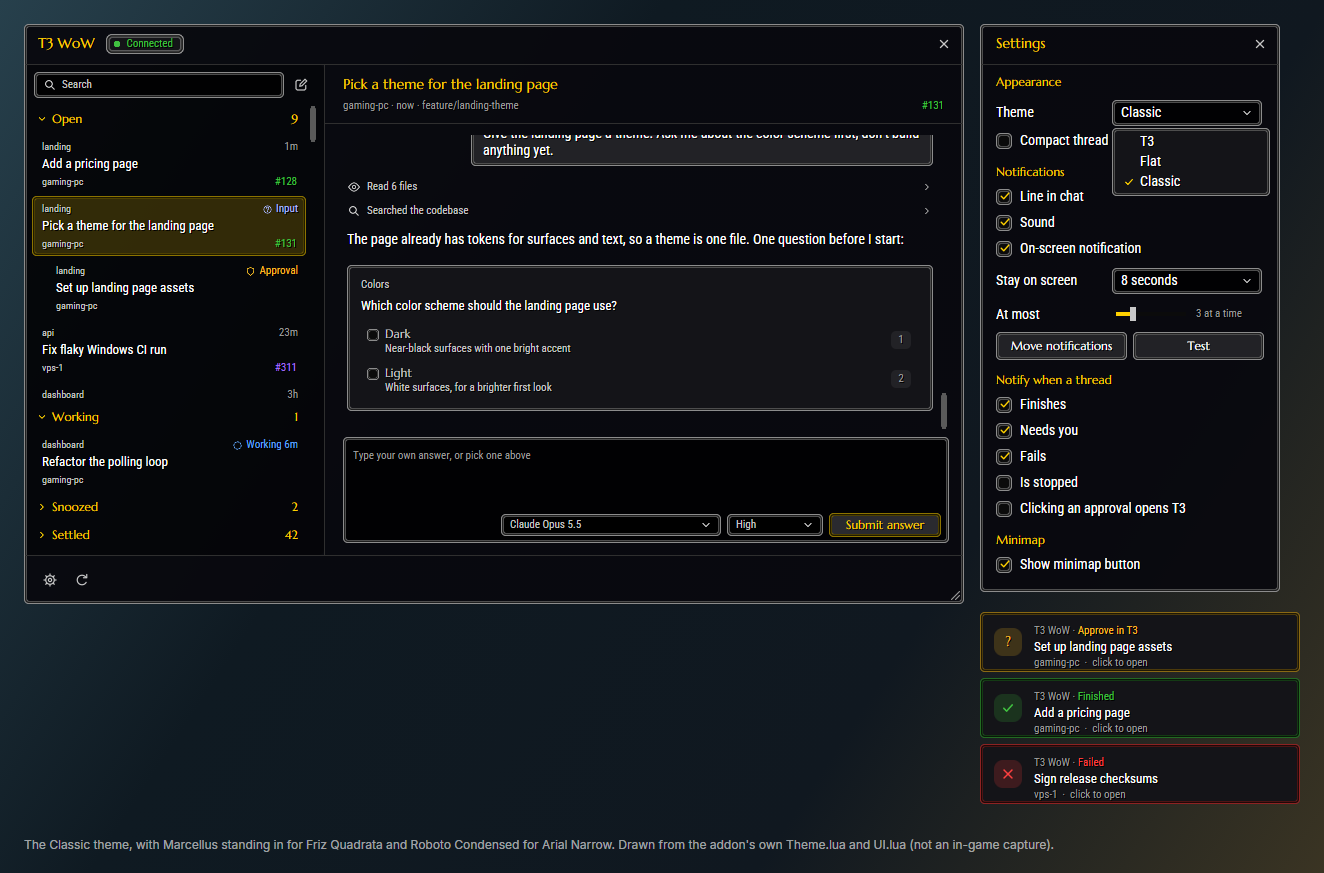
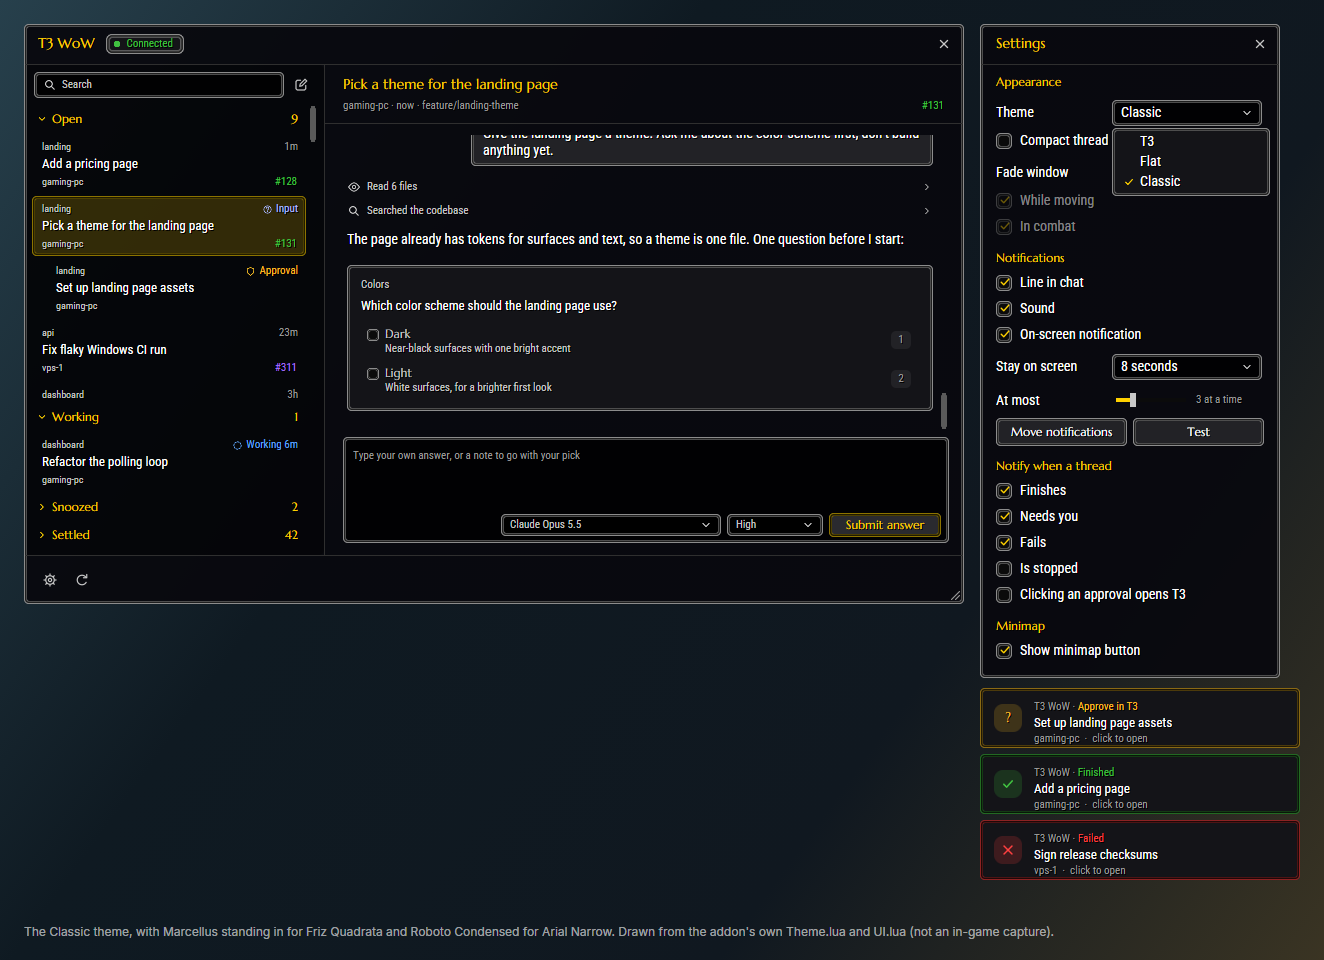
feat: the window can dim or hide while you move or fight (Fade window in Settings, off by default)

diff --git a/tests/ui.test.js b/tests/ui.test.js
@@ -2047,6 +2047,158 @@ return "ok"
 `);
 });
 
+// The player, as the fade reads it: moving (speed), on a flight path, in combat.
+const PLAYER = `
+speed, onTaxi, inCombat = 0, false, false
+function GetUnitSpeed(unit) return unit == "player" and speed or 0 end
+function UnitOnTaxi() return onTaxi end
+function InCombatLockdown() return inCombat end
+function UnitAffectingCombat() return inCombat end`;
+// Nobody typing in the window, the pointer off it.
+const FADE_HELPERS = `
+rawset(composer(), "HasFocus", function() return false end)
+rawset(T3WoWSearch, "HasFocus", function() return false end)
+function alpha() return T3WoWFrame:GetAlpha() end
+function fadeCheck(text)
+  for _, f in ipairs(frames) do
+    if f.kind == "CheckButton" and rawget(f, "label") and f.label.text == text then return f end
+  end
+end
+`;
+
+test("Settings has Fade window: Off at first, then Dim or Hide, with when to fade", () => {
+  run(`${FADE_HELPERS}
+UI.ShowSettings()
+assert(menuTexts("T3WoWFadeMenu") == "Off|Dim|Hide", menuTexts("T3WoWFadeMenu"))
+assert(shown("T3WoWFadeMenu") == "Off", shown("T3WoWFadeMenu"))
+assert(menuEntries("T3WoWFadeMenu")[1].checked, "Off isn't checked")
+local moving, combat = fadeCheck("While moving"), fadeCheck("In combat")
+assert(moving and combat, "no While moving or In combat check")
+assert(moving.get() == true and combat.get() == true, "both should start on")
+assert(not moving.enabled and not combat.enabled, "the checks should be greyed out while Off")
+pick("T3WoWFadeMenu", "Dim")
+assert(T3WoWDB.settings.fade == "dim" and shown("T3WoWFadeMenu") == "Dim", "Dim not saved or shown")
+assert(moving.enabled and combat.enabled, "the checks should turn on with Dim")
+combat.GetChecked = function() return false end
+combat.scripts.OnClick(combat)
+assert(T3WoWDB.settings.fadeCombat == false, "In combat not saved")
+pick("T3WoWFadeMenu", "Hide")
+assert(T3WoWDB.settings.fade == "hide", "Hide not saved")
+return "ok"
+`, { before: PLAYER });
+});
+
+test("Fade window off (the default) leaves the window as it is while moving and in combat", () => {
+  run(`${FADE_HELPERS}
+speed, inCombat = 7, true
+tick(2)
+assert(alpha() == 1, "faded with the setting off: " .. alpha())
+return "ok"
+`, { before: PLAYER });
+});
+
+test("Dim fades the window while you move and brings it back when you stop, but not on a flight path", () => {
+  run(`${FADE_HELPERS}
+T3WoWDB.settings.fade = "dim"
+speed = 7
+tick(0.25)
+assert(alpha() > 0.35 and alpha() < 1, "should fade over a moment, not at once: " .. alpha())
+tick(1)
+assert(alpha() == 0.35, "not dimmed: " .. alpha())
+assert(T3WoWFrame:IsShown(), "dimming hid the window")
+speed = 0
+tick(0.5)
+assert(alpha() == 1, "didn't come back: " .. alpha())
+speed, onTaxi = 20, true
+tick(1)
+assert(alpha() == 1, "a flight path dimmed it: " .. alpha())
+-- While moving off, moving doesn't dim it.
+onTaxi, T3WoWDB.settings.fadeMoving = false, false
+tick(1)
+assert(alpha() == 1, "dimmed with While moving off: " .. alpha())
+return "ok"
+`, { before: PLAYER });
+});
+
+test("Hide makes the window invisible in combat, without hiding it, and it comes back after", () => {
+  run(`${FADE_HELPERS}
+T3WoWDB.settings.fade = "hide"
+local sentBefore = #queue()
+inCombat = true
+tick(1)
+assert(alpha() == 0, "not invisible in combat: " .. alpha())
+assert(T3WoWFrame:IsShown() and #queue() == sentBefore, "the window was hidden, or the companion told it closed")
+-- Pointing at it brings it back while you point.
+T3WoWFrame.IsMouseOver = function() return true end
+tick(0.5)
+assert(alpha() == 1, "pointing at it didn't bring it back: " .. alpha())
+T3WoWFrame.IsMouseOver = function() return false end
+tick(1)
+assert(alpha() == 0, "didn't fade again: " .. alpha())
+-- A dropdown list open over the window keeps it whole.
+UI.ShowSettings()
+T3WoWFadeMenu.scripts.OnClick(T3WoWFadeMenu, "LeftButton")
+assert(T3WoWDropdownList.shown, "the list didn't open")
+tick(0.5)
+assert(alpha() == 1, "faded behind an open dropdown: " .. alpha())
+T3WoWDropdownList:Hide()
+tick(1)
+assert(alpha() == 0, "didn't fade once the list closed: " .. alpha())
+inCombat = false
+tick(0.5)
+assert(alpha() == 1, "didn't come back after combat: " .. alpha())
+T3WoWDB.settings.fadeCombat = false
+inCombat = true
+tick(1)
+assert(alpha() == 1, "hid with In combat off: " .. alpha())
+return "ok"
+`, { before: PLAYER });
+});
+
+test("the window doesn't fade while you type in it, and keeps what you typed", () => {
+  run(`${FADE_HELPERS}
+inboxWith(ENVS, { threads = { { e = 1, id = "t1", t = "Fix the build", s = "completed", set = false, at = time(), p = "" } } })
+UI.Select({ e = 1, id = "t1" })
+T3WoWDB.settings.fade = "hide"
+typeText("half a message")
+rawset(composer(), "HasFocus", function() return true end)
+inCombat = true
+tick(1)
+assert(alpha() == 1, "faded while typing: " .. alpha())
+assert(typed() == "half a message", "the message box lost its text")
+rawset(composer(), "HasFocus", function() return false end)
+rawset(T3WoWSearch, "HasFocus", function() return true end)
+tick(1)
+assert(alpha() == 1, "faded while searching: " .. alpha())
+rawset(T3WoWSearch, "HasFocus", function() return false end)
+tick(1)
+assert(alpha() == 0, "didn't fade once typing stopped: " .. alpha())
+assert(typed() == "half a message", "fading cleared the message box")
+return "ok"
+`, { before: PLAYER });
+});
+
+test("opened mid-fight, the window shows whole until the fight ends, then fades in the next", () => {
+  run(`${FADE_HELPERS}
+T3WoWDB.settings.fade = "dim"
+UI.Toggle()
+inCombat = true
+UI.Toggle()
+tick(1)
+assert(alpha() == 1, "opened mid-fight but faded: " .. alpha())
+inCombat = false
+tick(0.5)
+inCombat = true
+tick(1)
+assert(alpha() == 0.35, "the next fight didn't dim it: " .. alpha())
+-- Closed faded and opened again: whole at once.
+UI.Toggle()
+UI.Toggle()
+assert(alpha() == 1, "reopened faded: " .. alpha())
+return "ok"
+`, { before: PLAYER });
+});
+
 test("after an update installed while the game ran, the window says to restart instead of breaking", () => {
   const out = runGame(`
 UI.Toggle()

diff --git a/tests/game.js b/tests/game.js
@@ -72,7 +72,7 @@ end
 -- getters answer 0 (sizes, scroll ranges).
 frames = {}
 local function frame(kind, name)
-  local f = { scripts = {}, shown = true, text = "", enabled = true, kind = kind, name = name }
+  local f = { scripts = {}, shown = true, text = "", enabled = true, kind = kind, name = name, alpha = 1 }
   function f:SetScript(event, fn) self.scripts[event] = fn end
   function f:GetScript(event) return self.scripts[event] end
   function f:HookScript(event, fn)
@@ -100,6 +100,8 @@ local function frame(kind, name)
   function f:Insert(text) self.text = self.text .. text end
   function f:GetCursorPosition() return #self.text end
   function f:SetEnabled(on) self.enabled = on end
+  function f:SetAlpha(a) self.alpha = a end
+  function f:GetAlpha() return self.alpha end
   function f:EnableMouse(on) self.mouse = on end
   function f:GetFontString() return fontString() end
   function f:GetPoint() return "CENTER", nil, "CENTER", 0, 0 end

diff --git a/README.md b/README.md
@@ -136,7 +136,7 @@ Each login and reload says in chat that T3 WoW loaded, then that it connected to
 - **Stop** interrupts a running thread. It reads **Stopping…** until the run has ended; if there was nothing to stop, or T3 refuses (with its reason), the window says so and **Stop** comes back, as it does after a minute with no sign of the run ending. It shares **Send**'s place in the message box, as in T3: during a run the button is **Stop**, and becomes **Send** as soon as there's something typed or pasted.
 - A thread in the list shows its project, title and machine, with its pull request across from the machine, as in T3. At the top right is its status while it has one (**Working** with how long the run has gone, **Waiting**, **Input**, **Approval**, **Failed**, **Woke** when it came back from a snooze, or **Done** when it finished, until you open it in the game; T3 doesn't tell the game what you've read, so opening it in T3 doesn't clear **Woke** or **Done**), or else its age, counted as in T3: from the thread's last message or run, or for a settled thread from when it was settled. With the pointer on the row, that gives way to **Settle** (**Unsettle** on a settled thread) and **Snooze** (the clock). **Snooze** offers T3's snooze times, as set in T3's Settings > Snooze options (T3's own defaults until you change them; the four times 1 hour, 4 hours, 1 day and 1 week when T3 runs on another machine), and **Custom…**, a box for a time you type, such as `45m`, `2h`, `3d`, `5pm`, `tomorrow 9am` or `fri 3pm`. The companion reads it on the PC's clock: a time of day that has passed today means tomorrow, a weekday that has passed means next week's, and a time it can't read, one that has passed or one more than a year away is refused in the box, with what you typed left there. The thread moves to Snoozed until then, and the bottom line says until when; on a snoozed thread the clock is **Wake**. As in T3 Code 0.18.0, a thread waiting on your answer can be snoozed too: it sits under Snoozed saying **Input**, its question still open to answer, and a newer question or your answer brings it back early. A thread waiting on an approval, or on a turn that is still starting, offers only **Settle**. The clock shows once WoW has restarted after the update; until then it reads "Zz".
 - When a thread you are not looking at finishes, needs you or fails, a notification slides in near the top of the screen; click it to open the thread, right-click to dismiss. A line in chat and T3 Code's own notification sound (one for a thread that needs you, one for the rest) come with it. A new question or secret card while the thread still waits on an earlier one notifies too, once for each, as in T3 Code 0.19.0; a second approval doesn't, since T3's tools don't tell approvals apart. After a `/reload` or a login, a thread that still needs you gets a notification without the sound, unless one for this wait already ran its time or was clicked.
-- **Settings** picks the window's theme and turns on the compact thread list (both apply at once; see Themes below), turns the notification, chat line and sound on or off, sets how long notifications stay (or until clicked) and how many stay on screen at once (the oldest makes room; a newer one for the same thread replaces it), moves them (**Move notifications**, then drag), picks which outcomes notify (stopped threads are off by default), and shows or hides the minimap button.
+- **Settings** picks the window's theme and turns on the compact thread list (both apply at once; see Themes below), sets whether the window fades while you move or fight (**Fade window**, below), turns the notification, chat line and sound on or off, sets how long notifications stay (or until clicked) and how many stay on screen at once (the oldest makes room; a newer one for the same thread replaces it), moves them (**Move notifications**, then drag), picks which outcomes notify (stopped threads are off by default), and shows or hides the minimap button.
 
 **Themes.** Every theme has the same layout, and only colors, fonts and corner art change:
 
@@ -145,6 +145,8 @@ Each login and reload says in chat that T3 WoW loaded, then that it connected to
 - **Classic** keeps the game's own feel: gold Friz Quadrata headings and grey bevelled edges.
 
 The **Compact thread list** setting fits a thread on one line (its machine and project show when you hover it), with any theme. Dropdown lists are drawn in the theme too.
+
+**Fade window** in Settings dims the window (**Dim**) or makes it invisible (**Hide**) while you move, while you're in combat, or both (the **While moving** and **In combat** checks under it), and brings it back when you stop or leave combat. It starts at **Off**, so nothing changes until you pick one. Only the window's transparency changes: it stays open, so what you typed stays in the message box, and it fades even in combat, when the game locks some frames. It stays whole while you type in it or search, and while the pointer is on it, so pointing at a hidden window brings it back. Opened while you move or fight, it waits for you to stop before it fades. A flight path doesn't count as moving.
 
 When an agent asks you a question, it shows at the end of the thread's conversation: pick an option (several, where it allows that) and press **Submit answer**, or type your own answer in the box and press Enter. If the answer doesn't go through, **Submit answer** can be pressed again. Permission prompts (approving a command or an edit) can't be answered through T3's tools by design: such a thread shows **Approve in T3**, and its thread view has an **Open in T3** button (the companion opens T3's own `t3code://` link). **Stop** cancels the run from the game. Clicking an approval's notification opens the thread in the game; turn on **Clicking an approval opens T3** in Settings to go straight to T3 instead.
 

diff --git a/docs/smoke-test.md b/docs/smoke-test.md
@@ -34,7 +34,7 @@
 | `slots.rs`, `Link.lua`, signals | `/t3 probe`; a long session (`/t3 status` counts the 200 updates); WoW running when the addon files change: the window's top line says to restart WoW; the AddOns list in the game shows T3 WoW as one entry, with no slot rows under it |
 | `render.rs`, pictures | A page and an embedded image (`![alt](C:\path\image.png)`); clicking a picture |
 | `clip.rs`, `keys.rs` | Ctrl+V in **New Thread** too; Ctrl+V outside the box pastes nothing; an image picked with **Win+V**; two image files (a PNG and a JPEG) copied in File Explorer, then Ctrl+V: two thumbnails |
-| `UI.lua`, `Theme.lua` | All three themes and **Compact thread list** in Settings; `npm run screenshots` and compare |
+| `UI.lua`, `Theme.lua` | All three themes and **Compact thread list** in Settings; **Fade window** set to **Dim**: the window dims while you run and in a fight, and comes back when you stop, leave combat or point at it; `npm run screenshots` and compare |
 | `.toc`, interface version | Tray **Match WoW's interface version…**, then the AddOns list shows nothing out of date |
 | `tray.rs`, `dialog.rs`, `app.rs` | Every menu item the change touched, and its notification |
 | `updater.rs` | From the previous release's exe, **Check for updates** and **Update to x.y.z** (debug builds take `T3WOW_UPDATE_REPO` to update from another repository); the restarted companion says its new version |

diff --git a/assets/curseforge-description.md b/assets/curseforge-description.md
@@ -64,6 +64,7 @@ The window comes in three themes with the same layout. Only the colors, fonts an
 Right-click the minimap button, type /t3 settings, or press the gear at the bottom left of the window.
 
 - **Theme** picks T3, Flat or Classic, and **Compact thread list** fits each thread on one line. Both apply at once.
+- **Fade window** dims the window (**Dim**) or makes it invisible (**Hide**) while you move, while you're in combat, or both, and brings it back when you stop. It starts at **Off**. It stays whole while you type in it or point at it.
 - Turn the line in chat, the sound and the on-screen notification on or off.
 - **Stay on screen** sets how long a notification stays up: 5, 8, 15 or 30 seconds, or until you click it.
 - **At most** sets how many notifications stay on screen at once, from 1 to 10. The oldest one closes to make room, and a newer notification for the same thread replaces the old one.
